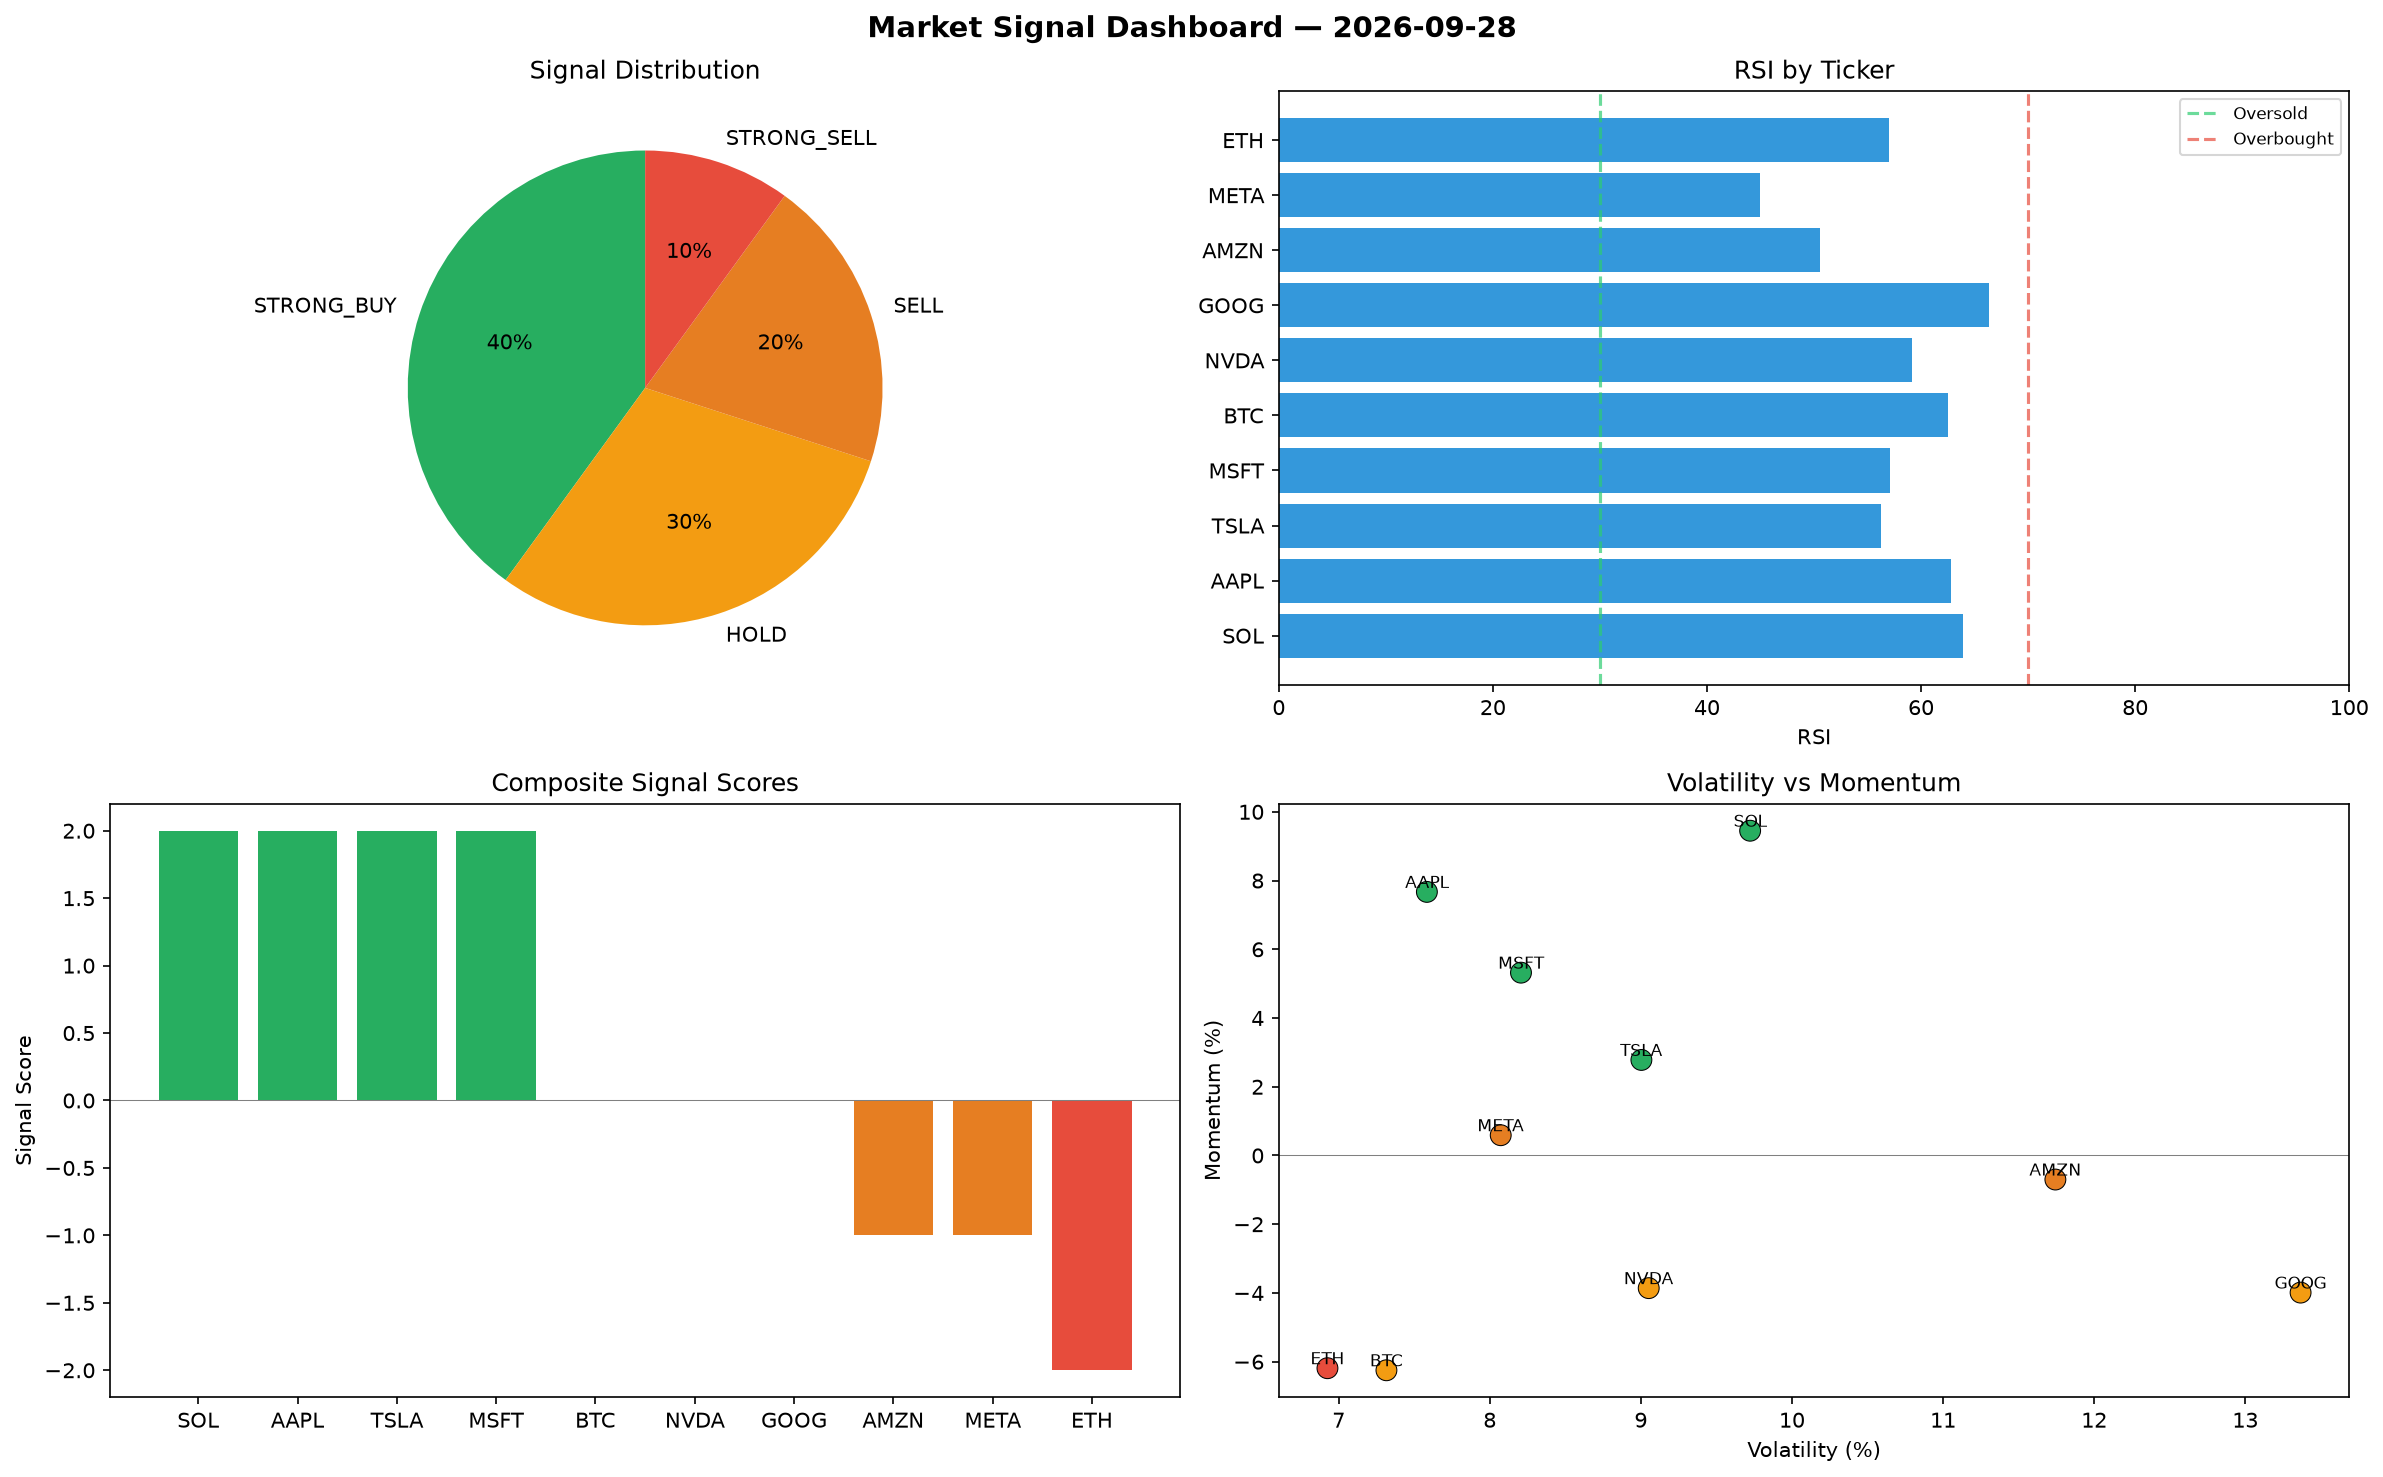
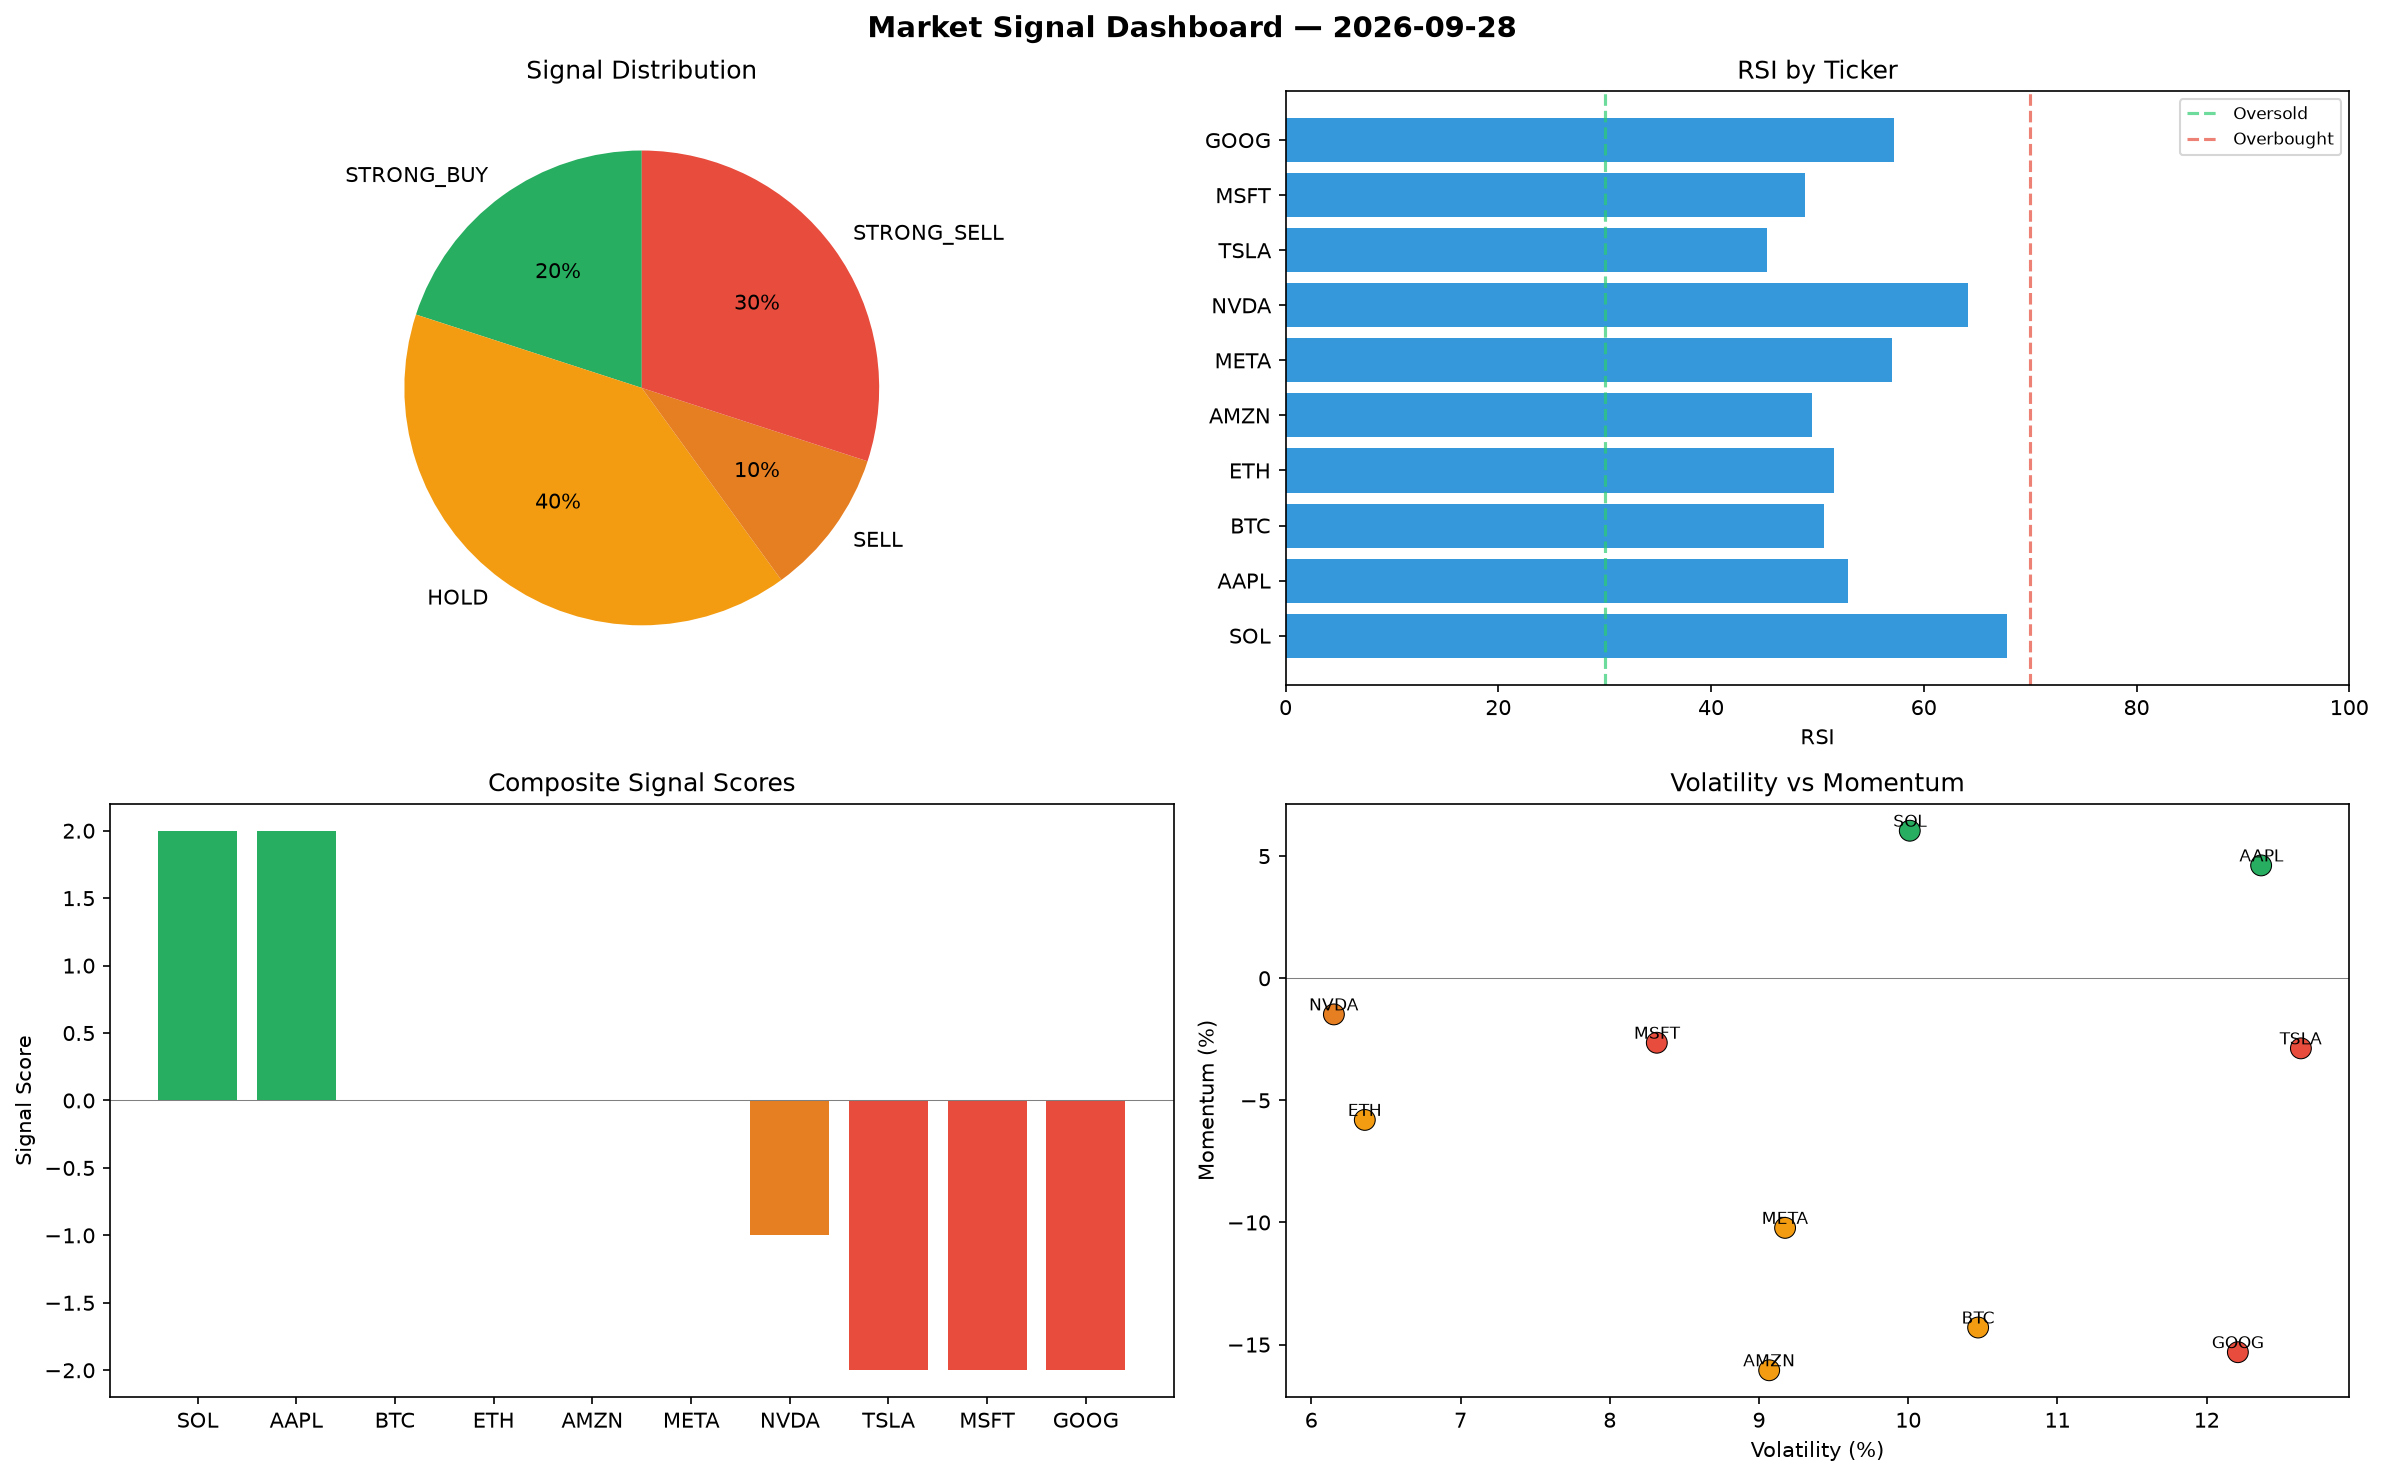
automated-bots: market signals 2026-09-28T16:51

diff --git a/logs/2026-09-28.md b/logs/2026-09-28.md
@@ -1,6 +1,6 @@
 # Market Signal Report — 2026-09-28
 
-**Run ID:** `55eaa4b465` | **Buy:** 4 | **Sell:** 3 | **Hold:** 3
+**Run ID:** `655efd9157` | **Buy:** 2 | **Sell:** 4 | **Hold:** 4
 
 ![Dashboard](2026-09-28_dashboard.png)
 
@@ -8,28 +8,28 @@
 
 | Ticker | Price | Signal | Score | RSI | Momentum | Confidence |
 |--------|-------|--------|-------|-----|----------|------------|
-| SOL | $3443.56 | **STRONG_BUY** | 2 | 63.91 | 0.0945 | 0.5 |
-| AAPL | $2213.98 | **STRONG_BUY** | 2 | 62.78 | 0.0767 | 0.5 |
-| TSLA | $2152.55 | **STRONG_BUY** | 2 | 56.23 | 0.0278 | 0.5 |
-| MSFT | $4433.26 | **STRONG_BUY** | 2 | 57.14 | 0.0532 | 0.5 |
-| BTC | $2363.28 | **HOLD** | 0 | 62.55 | -0.0625 | 0.0 |
-| NVDA | $978.56 | **HOLD** | 0 | 59.18 | -0.0386 | 0.0 |
-| GOOG | $3705.45 | **HOLD** | 0 | 66.37 | -0.0399 | 0.0 |
-| AMZN | $3050.29 | **SELL** | -1 | 50.6 | -0.007 | 0.25 |
-| META | $3341.28 | **SELL** | -1 | 44.92 | 0.0059 | 0.25 |
-| ETH | $2150.11 | **STRONG_SELL** | -2 | 56.98 | -0.0619 | 0.5 |
+| SOL | $4364.79 | **STRONG_BUY** | 2 | 67.86 | 0.0604 | 0.5 |
+| AAPL | $1170.31 | **STRONG_BUY** | 2 | 52.89 | 0.0462 | 0.5 |
+| BTC | $106.7 | **HOLD** | 0 | 50.66 | -0.143 | 0.0 |
+| ETH | $1356.59 | **HOLD** | 0 | 51.52 | -0.058 | 0.0 |
+| AMZN | $2922.48 | **HOLD** | 0 | 49.46 | -0.1605 | 0.0 |
+| META | $3189.42 | **HOLD** | 0 | 57.01 | -0.1022 | 0.0 |
+| NVDA | $3610.87 | **SELL** | -1 | 64.19 | -0.0148 | 0.25 |
+| TSLA | $3972.9 | **STRONG_SELL** | -2 | 45.26 | -0.0287 | 0.5 |
+| MSFT | $3250.58 | **STRONG_SELL** | -2 | 48.88 | -0.0264 | 0.5 |
+| GOOG | $2329.64 | **STRONG_SELL** | -2 | 57.16 | -0.1531 | 0.5 |
 
 ## Delta vs Yesterday
 
 | Ticker | Today | Yesterday | Price Change | Signal Changed |
 |--------|-------|-----------|-------------|----------------|
-| SOL | STRONG_BUY | SELL | 📈 57.15% | ⚠ YES |
-| AAPL | STRONG_BUY | STRONG_BUY | 📉 -57.92% | — |
-| TSLA | STRONG_BUY | STRONG_BUY | 📈 181.59% | — |
-| MSFT | STRONG_BUY | STRONG_SELL | 📈 5.12% | ⚠ YES |
-| BTC | HOLD | STRONG_BUY | 📉 -23.55% | ⚠ YES |
-| NVDA | HOLD | STRONG_SELL | 📉 -40.77% | ⚠ YES |
-| GOOG | HOLD | HOLD | 📈 112.33% | — |
-| AMZN | SELL | STRONG_SELL | 📈 8.44% | ⚠ YES |
-| META | SELL | SELL | 📈 24.82% | — |
-| ETH | STRONG_SELL | BUY | 📈 16.59% | ⚠ YES |
+| SOL | STRONG_BUY | SELL | 📈 99.19% | ⚠ YES |
+| AAPL | STRONG_BUY | STRONG_BUY | 📉 -77.76% | — |
+| BTC | HOLD | STRONG_BUY | 📉 -96.55% | ⚠ YES |
+| ETH | HOLD | BUY | 📉 -26.44% | ⚠ YES |
+| AMZN | HOLD | STRONG_SELL | 📈 3.9% | ⚠ YES |
+| META | HOLD | SELL | 📈 19.15% | ⚠ YES |
+| NVDA | SELL | STRONG_SELL | 📈 118.58% | ⚠ YES |
+| TSLA | STRONG_SELL | STRONG_BUY | 📈 419.73% | ⚠ YES |
+| MSFT | STRONG_SELL | STRONG_SELL | 📉 -22.92% | — |
+| GOOG | STRONG_SELL | HOLD | 📈 33.49% | ⚠ YES |
